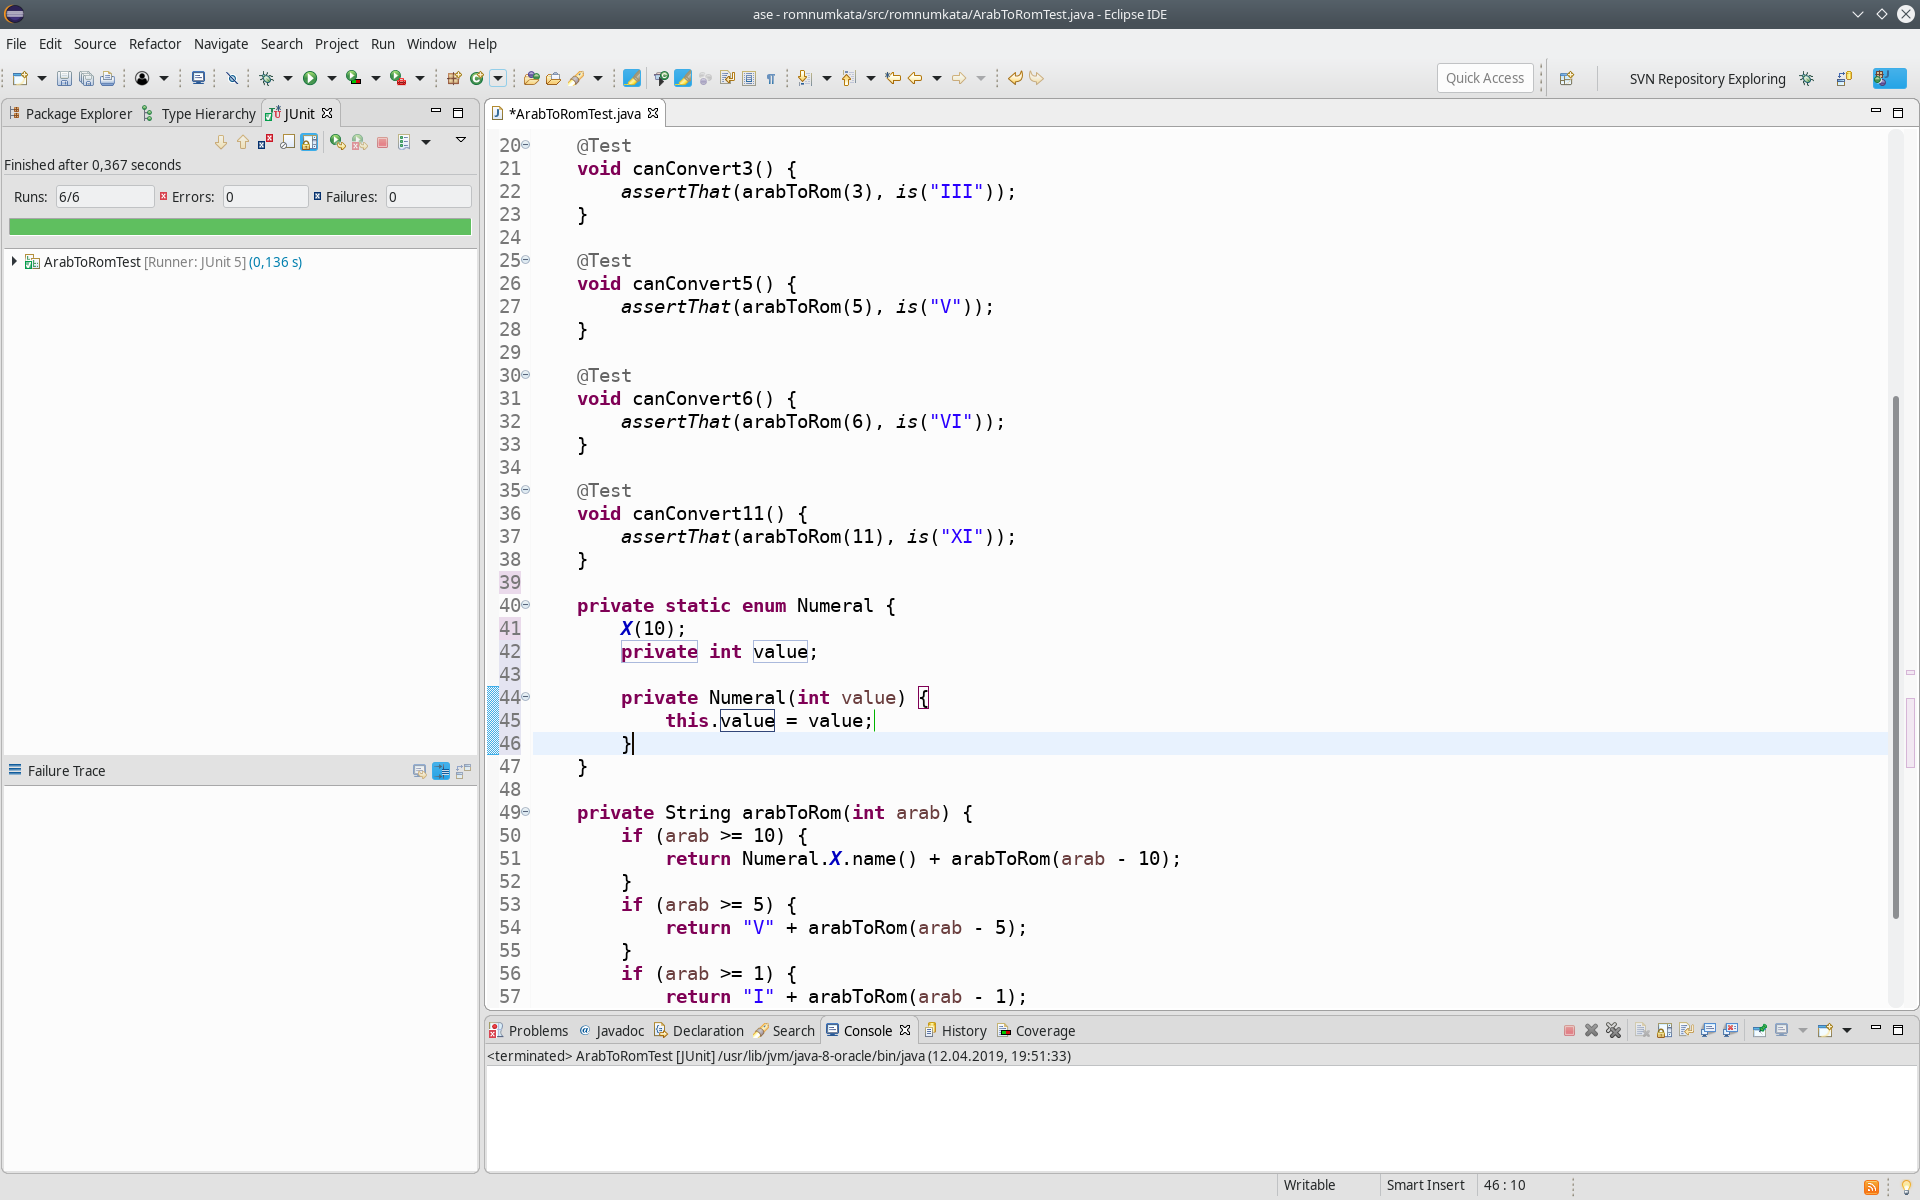
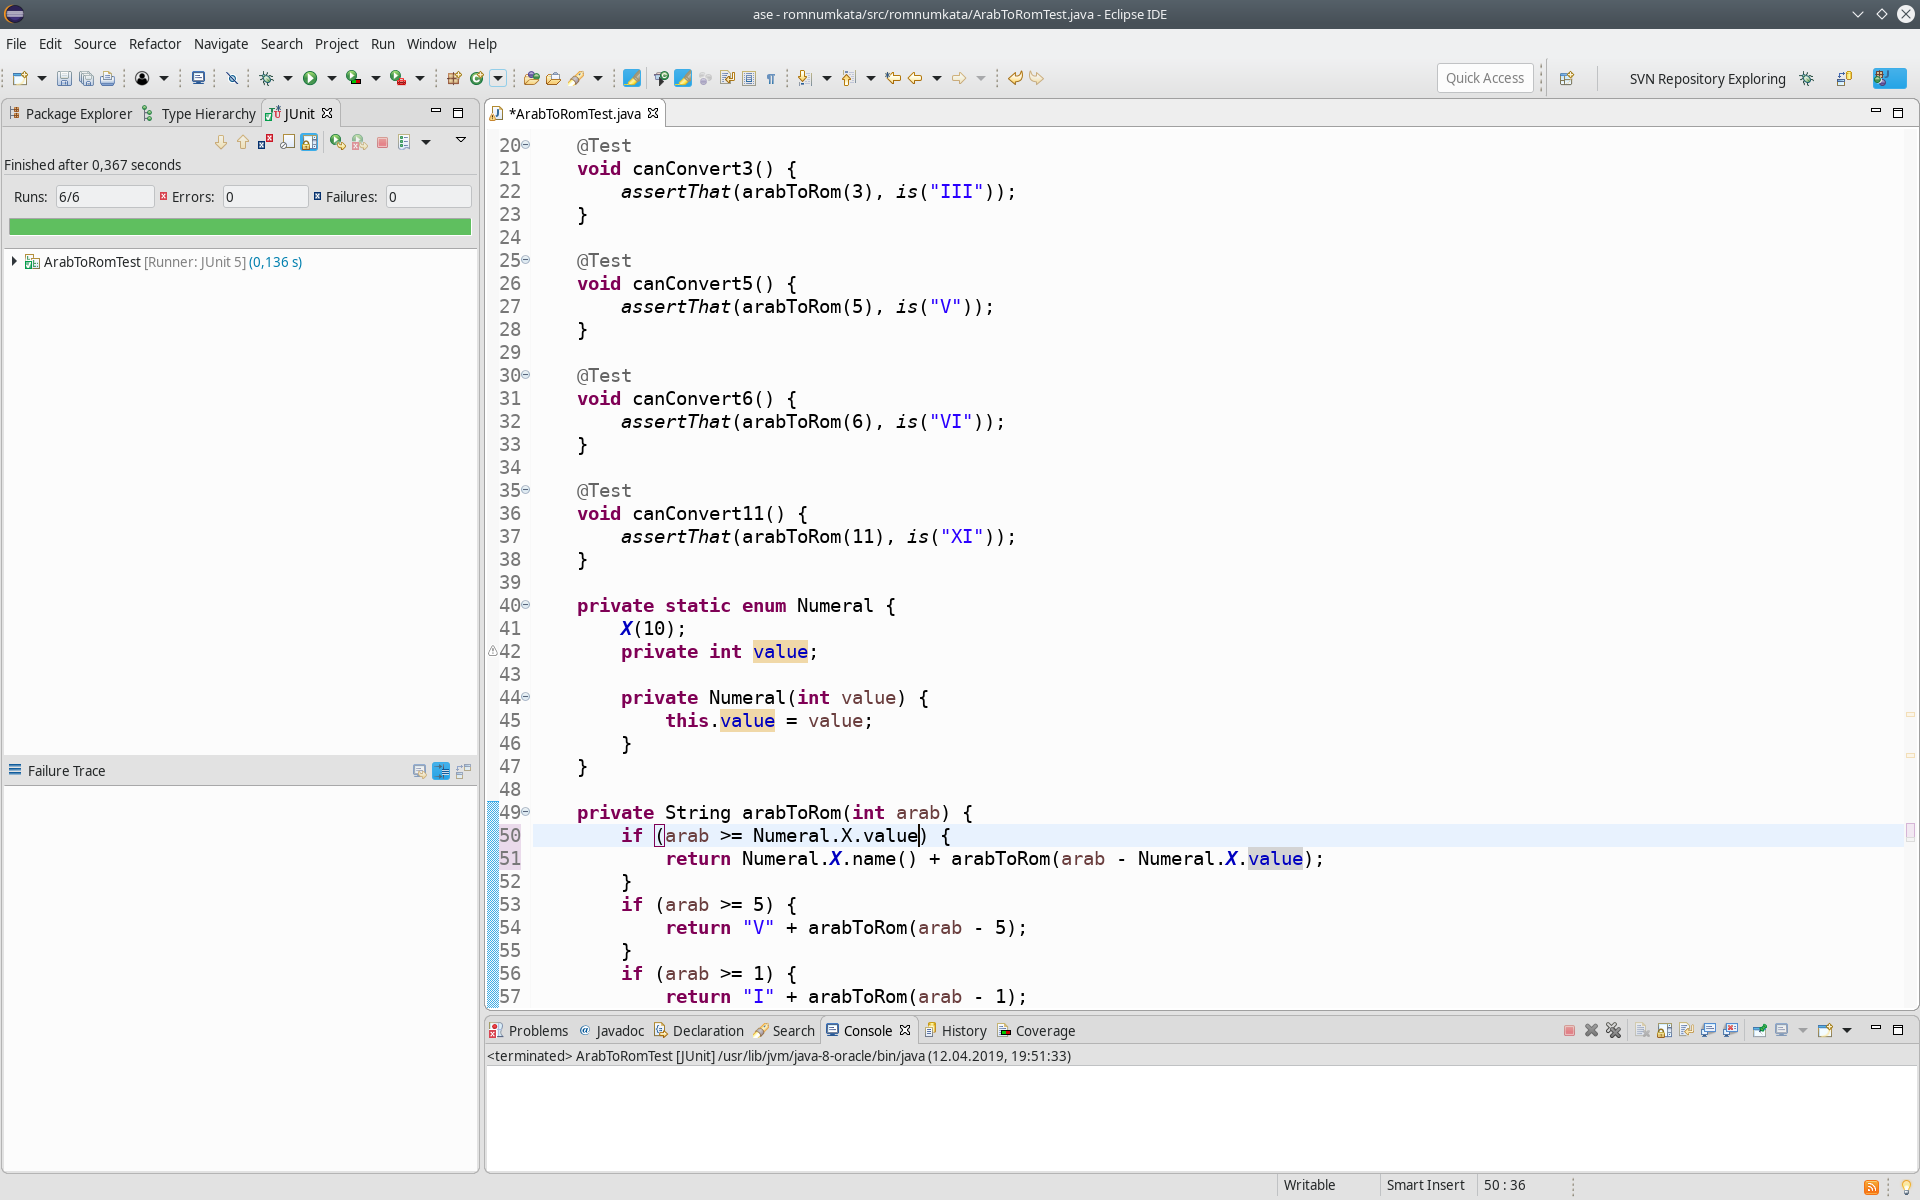
autocommit on change

diff --git a/src/romnumkata/ArabToRomTest.java b/src/romnumkata/ArabToRomTest.java
@@ -47,8 +47,8 @@ public class ArabToRomTest {
 	}
 
 	private String arabToRom(int arab) {
-		if (arab >= 10) {
-			return Numeral.X.name() + arabToRom(arab - 10);
+		if (arab >= Numeral.X.value) {
+			return Numeral.X.name() + arabToRom(arab - Numeral.X.value);
 		}
 		if (arab >= 5) {
 			return "V" + arabToRom(arab - 5);
